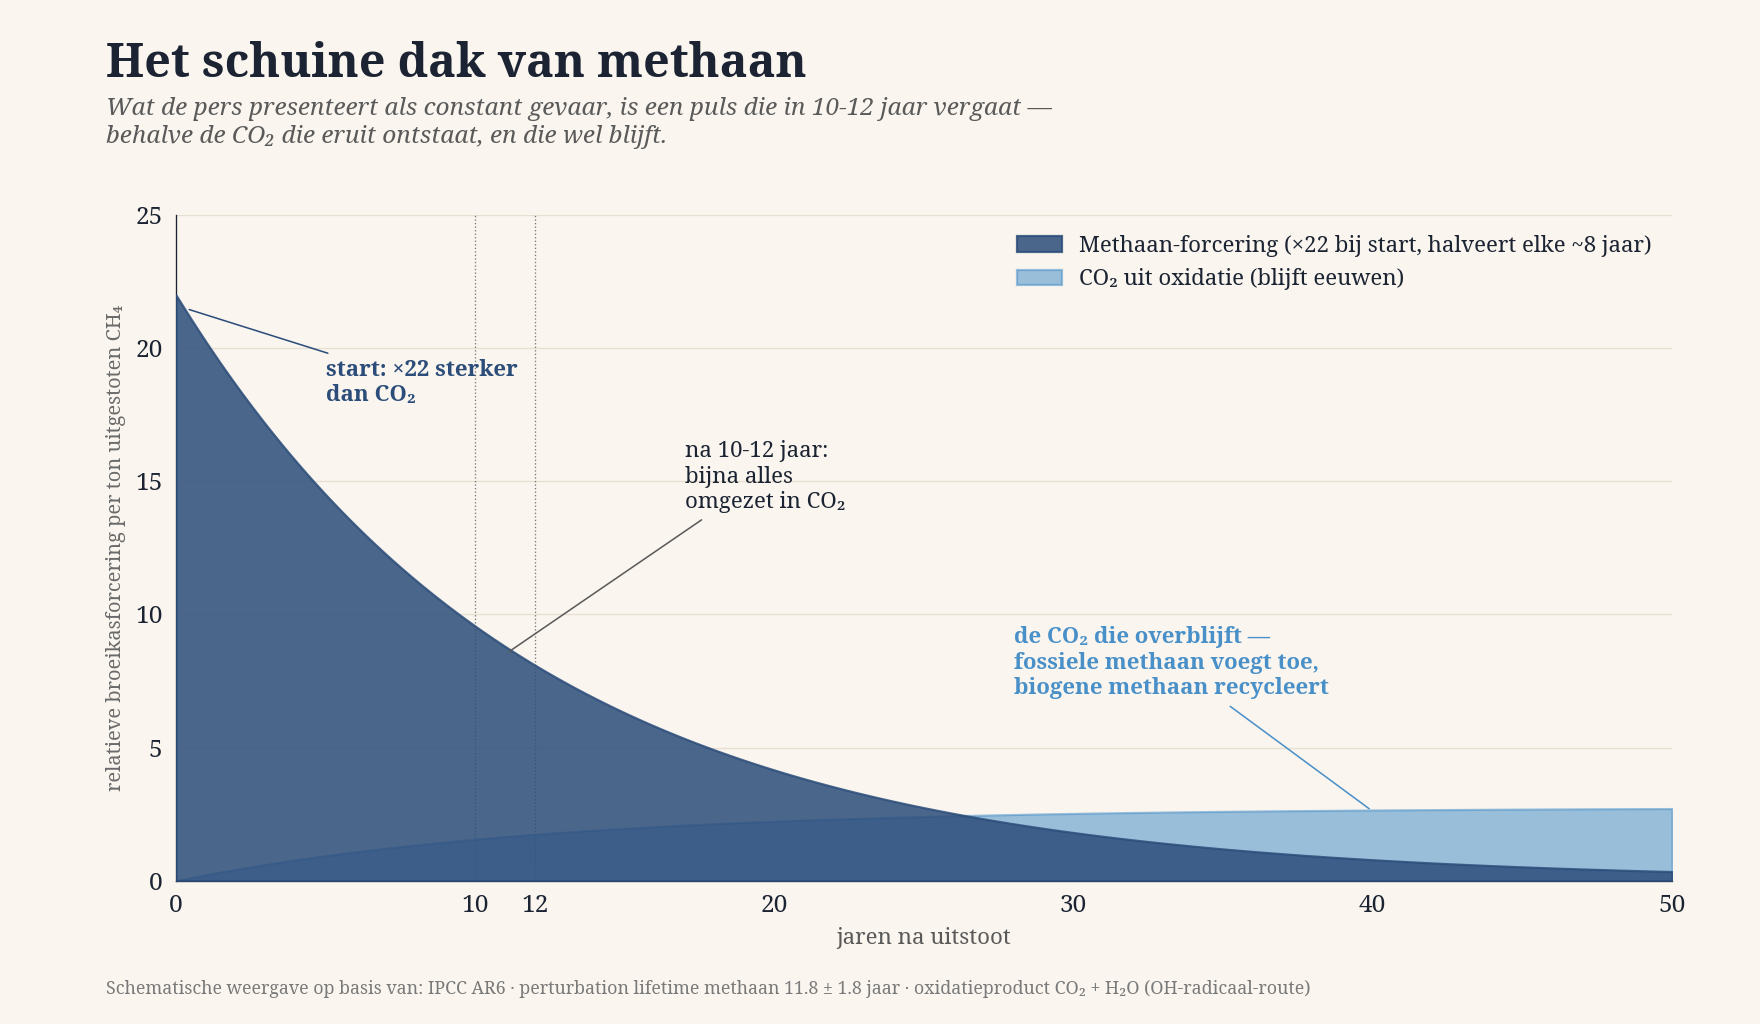
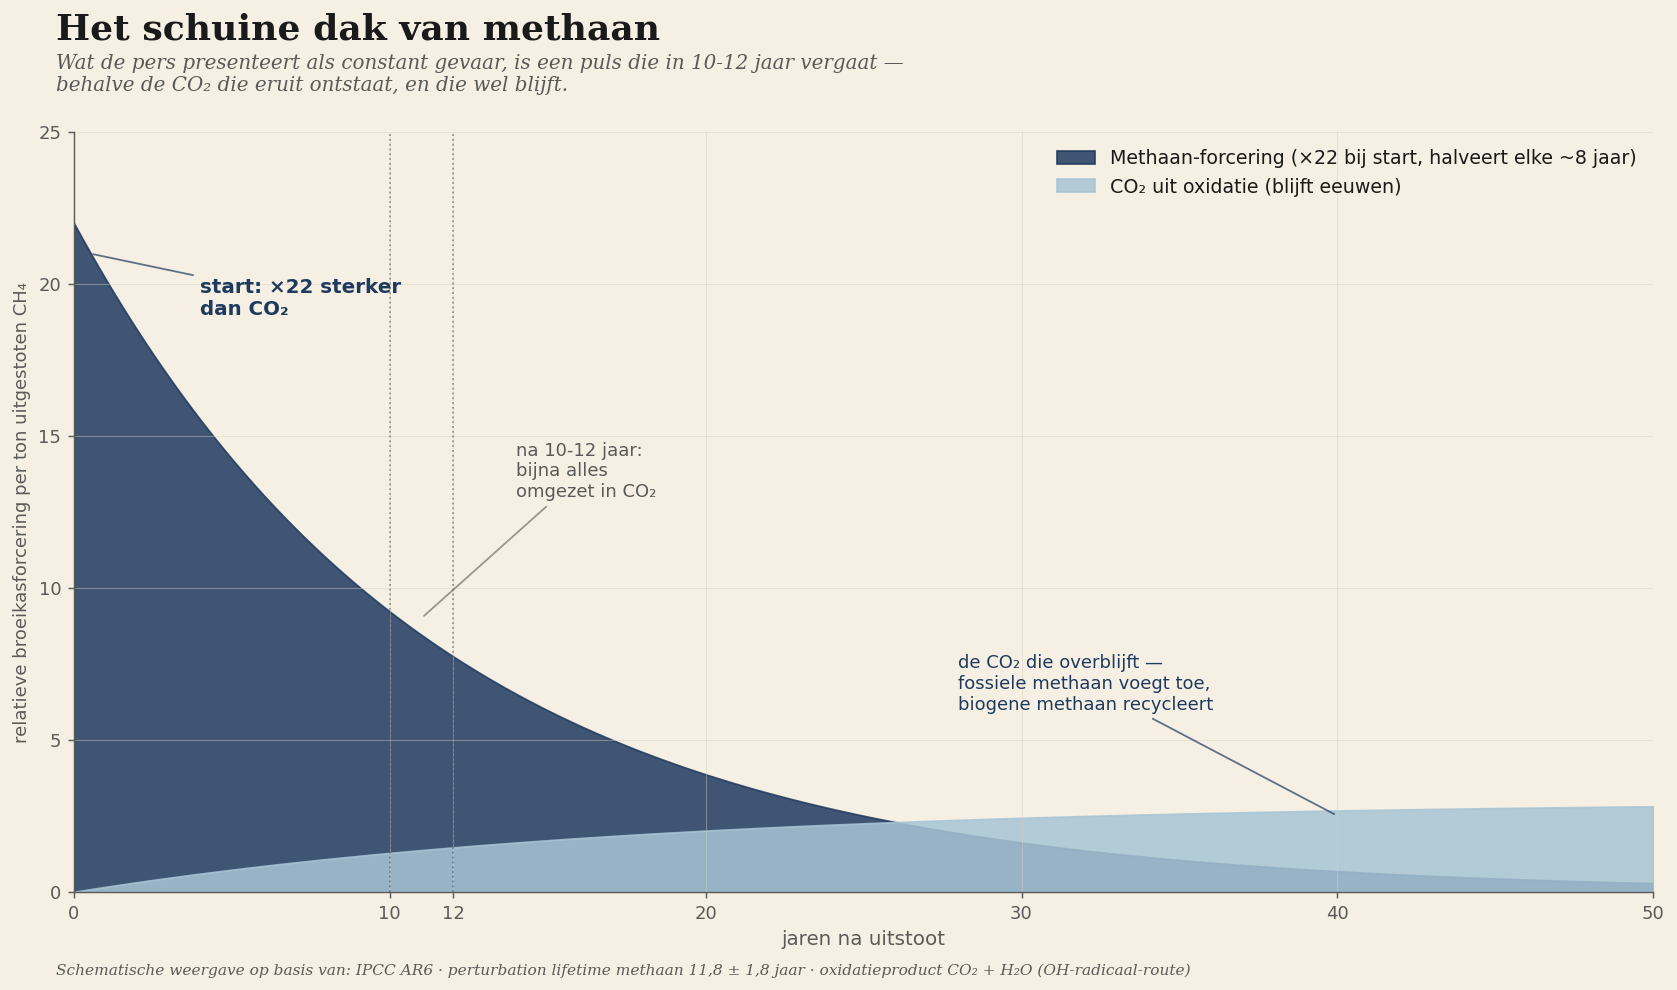
Methaan-grafieken NL/DE/EN/RU vertaald + figcaptions gefixt

diff --git a/en/edition-5/artikel-04-methaan-misleiding.html b/en/edition-5/artikel-04-methaan-misleiding.html
@@ -112,8 +112,8 @@
 <section class="slide">
   <div class="slide__inner slide__inner--narrow">
     <figure class="diagram">
-      <img src="../../assets/articles-editie-5/03_methaan_tijd.png" alt="Het schuine dak van methaan" style="width:100%;height:auto;border-radius:6px;">
-      <figcaption style="margin-top:var(--space-2);font-size:0.9rem;color:#6a6a6a;text-align:center;font-style:italic;">Het schuine dak van methaan</figcaption>
+      <img src="../../assets/articles-editie-5/03_methaan_tijd-en.png" alt="The sloping roof of methane" style="width:100%;height:auto;border-radius:6px;">
+      <figcaption style="margin-top:var(--space-2);font-size:0.9rem;color:#6a6a6a;text-align:center;font-style:italic;">The sloping roof of methane</figcaption>
     </figure>
   </div>
 </section>
@@ -121,7 +121,7 @@
 <section class="slide">
   <div class="slide__inner slide__inner--narrow">
     <figure class="diagram">
-      <img src="../../assets/articles-editie-5/06_methaan_verval.png" alt="What stays, what vanishes" style="width:100%;height:auto;border-radius:6px;">
+      <img src="../../assets/articles-editie-5/06_methaan_verval-en.png" alt="What stays, what vanishes" style="width:100%;height:auto;border-radius:6px;">
       <figcaption style="margin-top:var(--space-2);font-size:0.9rem;color:#6a6a6a;text-align:center;font-style:italic;">What stays, what vanishes</figcaption>
     </figure>
   </div>
@@ -146,8 +146,8 @@
 <section class="slide">
   <div class="slide__inner slide__inner--narrow">
     <figure class="diagram">
-      <img src="../../assets/articles-editie-5/H_artikel_04.jpg" alt="De methaan-misleiding" style="width:100%;height:auto;border-radius:6px;">
-      <figcaption style="margin-top:var(--space-2);font-size:0.9rem;color:#6a6a6a;text-align:center;font-style:italic;">De methaan-misleiding</figcaption>
+      <img src="../../assets/articles-editie-5/H_artikel_04.jpg" alt="The methane deception" style="width:100%;height:auto;border-radius:6px;">
+      <figcaption style="margin-top:var(--space-2);font-size:0.9rem;color:#6a6a6a;text-align:center;font-style:italic;">The methane deception</figcaption>
     </figure>
   </div>
 </section>
@@ -201,8 +201,8 @@
 <section class="slide">
   <div class="slide__inner slide__inner--narrow">
     <figure class="diagram">
-      <img src="../../assets/articles-editie-5/03_methaan_tijd.png" alt="Het schuine dak van methaan" style="width:100%;height:auto;border-radius:6px;">
-      <figcaption style="margin-top:var(--space-2);font-size:0.9rem;color:#6a6a6a;text-align:center;font-style:italic;">Het schuine dak van methaan</figcaption>
+      <img src="../../assets/articles-editie-5/03_methaan_tijd-en.png" alt="The sloping roof of methane" style="width:100%;height:auto;border-radius:6px;">
+      <figcaption style="margin-top:var(--space-2);font-size:0.9rem;color:#6a6a6a;text-align:center;font-style:italic;">The sloping roof of methane</figcaption>
     </figure>
   </div>
 </section>
@@ -210,7 +210,7 @@
 <section class="slide">
   <div class="slide__inner slide__inner--narrow">
     <figure class="diagram">
-      <img src="../../assets/articles-editie-5/06_methaan_verval.png" alt="What stays, what vanishes" style="width:100%;height:auto;border-radius:6px;">
+      <img src="../../assets/articles-editie-5/06_methaan_verval-en.png" alt="What stays, what vanishes" style="width:100%;height:auto;border-radius:6px;">
       <figcaption style="margin-top:var(--space-2);font-size:0.9rem;color:#6a6a6a;text-align:center;font-style:italic;">What stays, what vanishes</figcaption>
     </figure>
   </div>
@@ -235,8 +235,8 @@
 <section class="slide">
   <div class="slide__inner slide__inner--narrow">
     <figure class="diagram">
-      <img src="../../assets/articles-editie-5/H_artikel_04.jpg" alt="De methaan-misleiding" style="width:100%;height:auto;border-radius:6px;">
-      <figcaption style="margin-top:var(--space-2);font-size:0.9rem;color:#6a6a6a;text-align:center;font-style:italic;">De methaan-misleiding</figcaption>
+      <img src="../../assets/articles-editie-5/H_artikel_04.jpg" alt="The methane deception" style="width:100%;height:auto;border-radius:6px;">
+      <figcaption style="margin-top:var(--space-2);font-size:0.9rem;color:#6a6a6a;text-align:center;font-style:italic;">The methane deception</figcaption>
     </figure>
   </div>
 </section>

diff --git a/ru/vypusk-5/artikel-04-methaan-misleiding.html b/ru/vypusk-5/artikel-04-methaan-misleiding.html
@@ -111,7 +111,7 @@
 <section class="slide">
   <div class="slide__inner slide__inner--narrow">
     <figure class="diagram">
-      <img src="../../assets/articles-editie-5/03_methaan_tijd.png" alt="Скошенная кровля метана" style="width:100%;height:auto;border-radius:6px;">
+      <img src="../../assets/articles-editie-5/03_methaan_tijd-ru.png" alt="Скошенная кровля метана" style="width:100%;height:auto;border-radius:6px;">
       <figcaption style="margin-top:var(--space-2);font-size:0.9rem;color:#6a6a6a;text-align:center;font-style:italic;">Скошенная кровля метана</figcaption>
     </figure>
   </div>
@@ -120,7 +120,7 @@
 <section class="slide">
   <div class="slide__inner slide__inner--narrow">
     <figure class="diagram">
-      <img src="../../assets/articles-editie-5/06_methaan_verval.png" alt="Что остаётся, что исчезает" style="width:100%;height:auto;border-radius:6px;">
+      <img src="../../assets/articles-editie-5/06_methaan_verval-ru.png" alt="Что остаётся, что исчезает" style="width:100%;height:auto;border-radius:6px;">
       <figcaption style="margin-top:var(--space-2);font-size:0.9rem;color:#6a6a6a;text-align:center;font-style:italic;">Что остаётся, что исчезает</figcaption>
     </figure>
   </div>
@@ -200,7 +200,7 @@
 <section class="slide">
   <div class="slide__inner slide__inner--narrow">
     <figure class="diagram">
-      <img src="../../assets/articles-editie-5/03_methaan_tijd.png" alt="Скошенная кровля метана" style="width:100%;height:auto;border-radius:6px;">
+      <img src="../../assets/articles-editie-5/03_methaan_tijd-ru.png" alt="Скошенная кровля метана" style="width:100%;height:auto;border-radius:6px;">
       <figcaption style="margin-top:var(--space-2);font-size:0.9rem;color:#6a6a6a;text-align:center;font-style:italic;">Скошенная кровля метана</figcaption>
     </figure>
   </div>
@@ -209,7 +209,7 @@
 <section class="slide">
   <div class="slide__inner slide__inner--narrow">
     <figure class="diagram">
-      <img src="../../assets/articles-editie-5/06_methaan_verval.png" alt="Что остаётся, что исчезает" style="width:100%;height:auto;border-radius:6px;">
+      <img src="../../assets/articles-editie-5/06_methaan_verval-ru.png" alt="Что остаётся, что исчезает" style="width:100%;height:auto;border-radius:6px;">
       <figcaption style="margin-top:var(--space-2);font-size:0.9rem;color:#6a6a6a;text-align:center;font-style:italic;">Что остаётся, что исчезает</figcaption>
     </figure>
   </div>

diff --git a/de/ausgabe-5/artikel-04-methaan-misleiding.html b/de/ausgabe-5/artikel-04-methaan-misleiding.html
@@ -112,7 +112,7 @@
 <section class="slide">
   <div class="slide__inner slide__inner--narrow">
     <figure class="diagram">
-      <img src="../../assets/articles-editie-5/03_methaan_tijd.png" alt="Das schiefe Dach des Methans" style="width:100%;height:auto;border-radius:6px;">
+      <img src="../../assets/articles-editie-5/03_methaan_tijd-de.png" alt="Das schiefe Dach des Methans" style="width:100%;height:auto;border-radius:6px;">
       <figcaption style="margin-top:var(--space-2);font-size:0.9rem;color:#6a6a6a;text-align:center;font-style:italic;">Das schiefe Dach des Methans</figcaption>
     </figure>
   </div>
@@ -121,7 +121,7 @@
 <section class="slide">
   <div class="slide__inner slide__inner--narrow">
     <figure class="diagram">
-      <img src="../../assets/articles-editie-5/06_methaan_verval.png" alt="Was bleibt, was verschwindet" style="width:100%;height:auto;border-radius:6px;">
+      <img src="../../assets/articles-editie-5/06_methaan_verval-de.png" alt="Was bleibt, was verschwindet" style="width:100%;height:auto;border-radius:6px;">
       <figcaption style="margin-top:var(--space-2);font-size:0.9rem;color:#6a6a6a;text-align:center;font-style:italic;">Was bleibt, was verschwindet</figcaption>
     </figure>
   </div>
@@ -201,7 +201,7 @@
 <section class="slide">
   <div class="slide__inner slide__inner--narrow">
     <figure class="diagram">
-      <img src="../../assets/articles-editie-5/03_methaan_tijd.png" alt="Das schiefe Dach des Methans" style="width:100%;height:auto;border-radius:6px;">
+      <img src="../../assets/articles-editie-5/03_methaan_tijd-de.png" alt="Das schiefe Dach des Methans" style="width:100%;height:auto;border-radius:6px;">
       <figcaption style="margin-top:var(--space-2);font-size:0.9rem;color:#6a6a6a;text-align:center;font-style:italic;">Das schiefe Dach des Methans</figcaption>
     </figure>
   </div>
@@ -210,7 +210,7 @@
 <section class="slide">
   <div class="slide__inner slide__inner--narrow">
     <figure class="diagram">
-      <img src="../../assets/articles-editie-5/06_methaan_verval.png" alt="Was bleibt, was verschwindet" style="width:100%;height:auto;border-radius:6px;">
+      <img src="../../assets/articles-editie-5/06_methaan_verval-de.png" alt="Was bleibt, was verschwindet" style="width:100%;height:auto;border-radius:6px;">
       <figcaption style="margin-top:var(--space-2);font-size:0.9rem;color:#6a6a6a;text-align:center;font-style:italic;">Was bleibt, was verschwindet</figcaption>
     </figure>
   </div>
